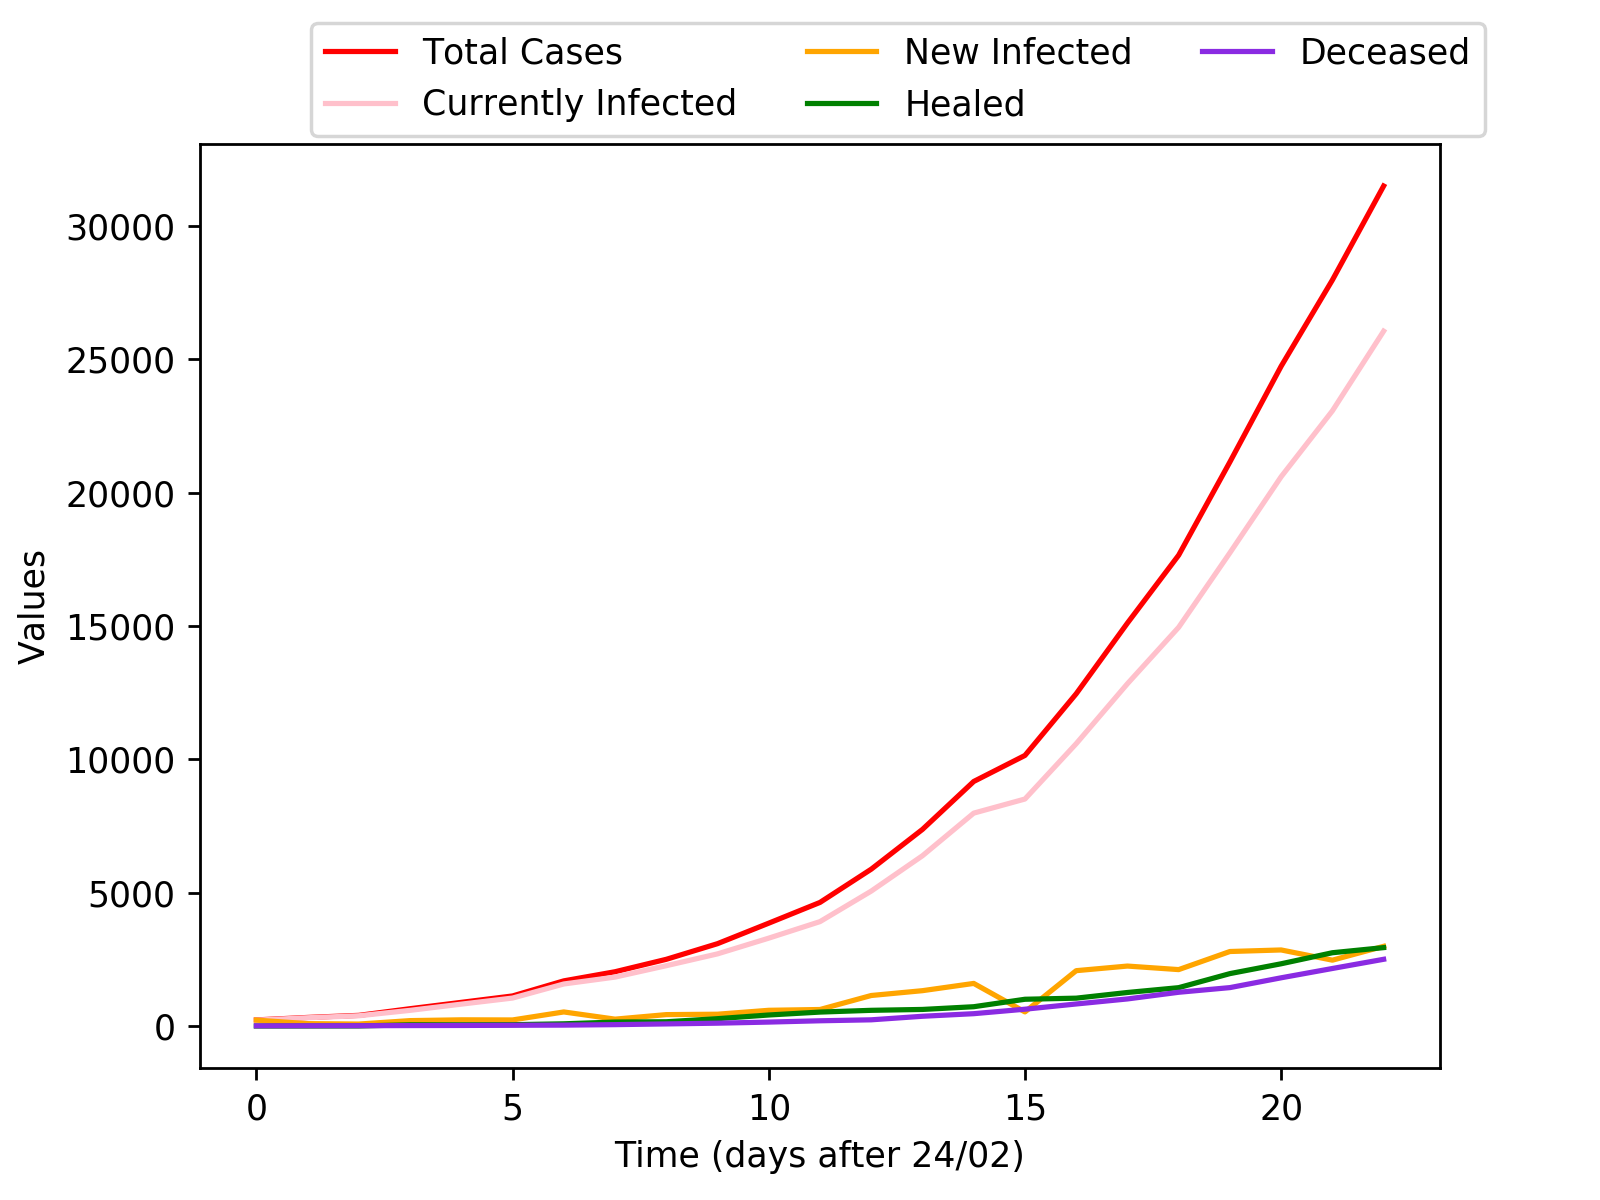
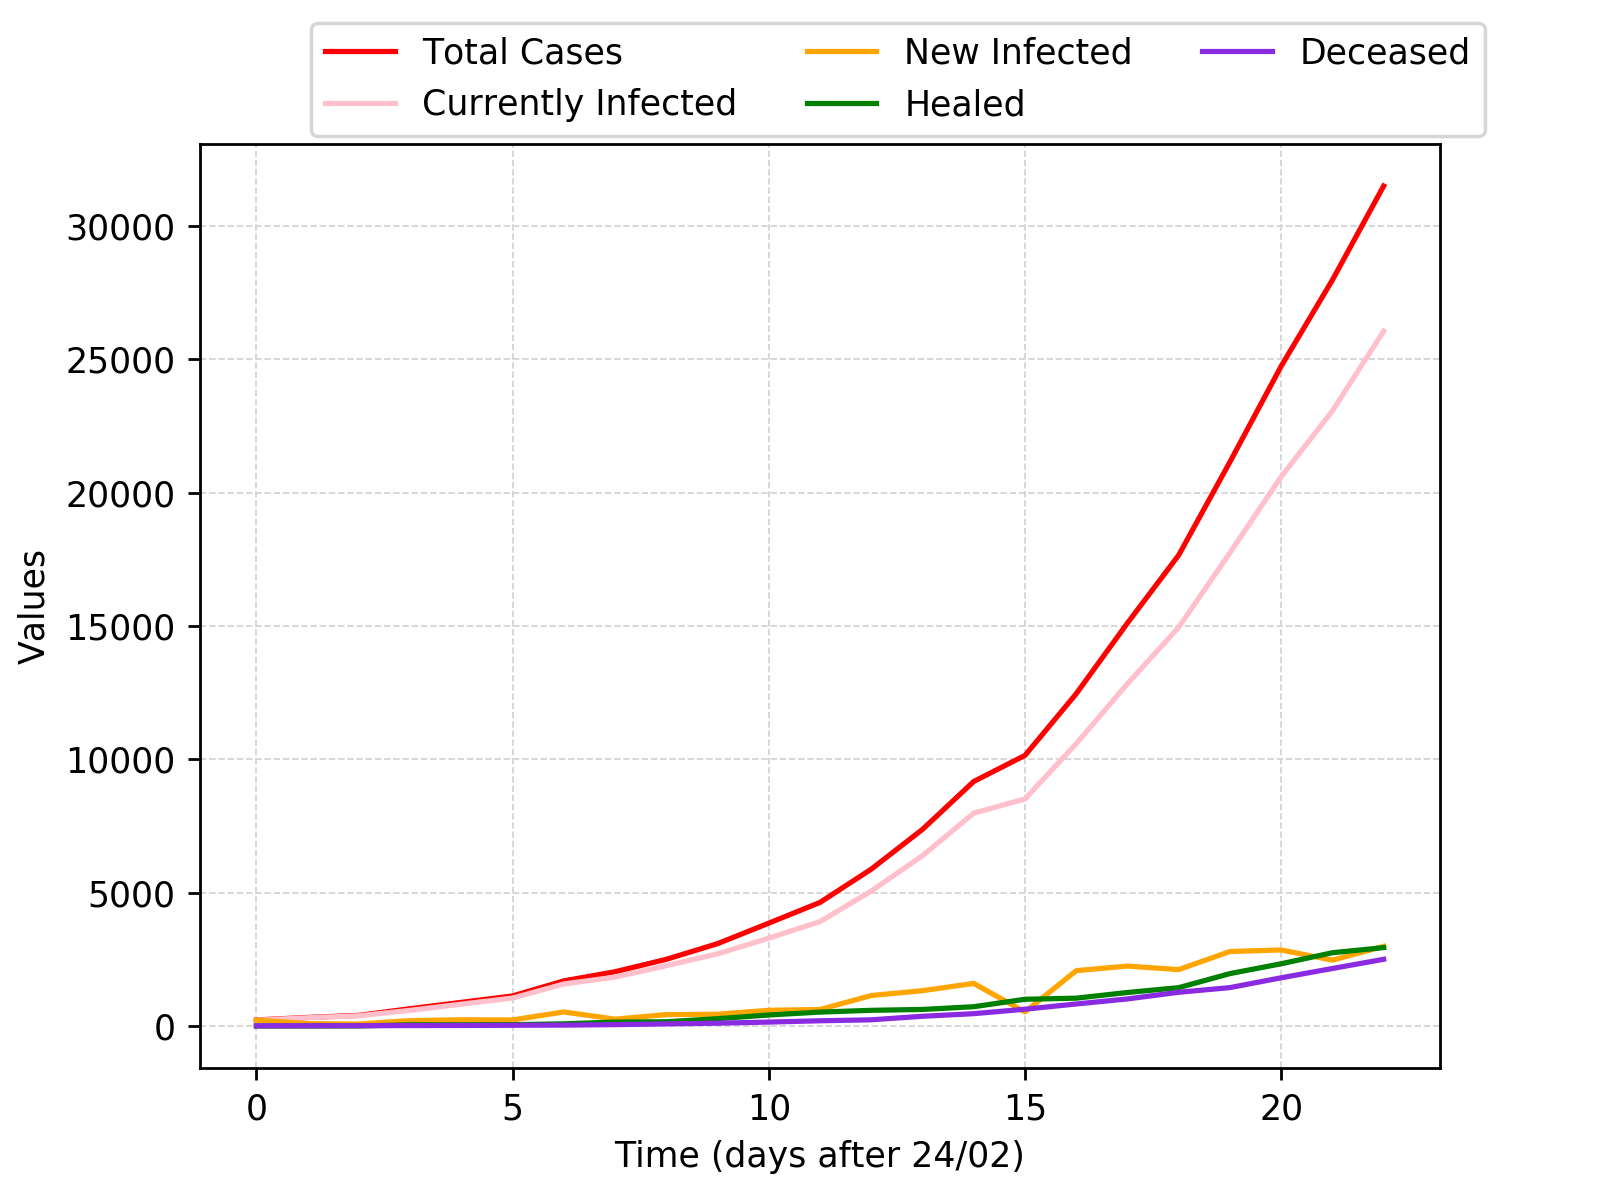
add grid to plots

diff --git a/plotscatter.py b/plotscatter.py
@@ -46,6 +46,7 @@ plt.title('Epidemic curve')
 plt.scatter(days, dataset['totale_casi'], c='red')
 #plt.scatter(days, dataset['totale_casi'], c='black')
 plt.legend(('data',),loc='upper right', bbox_to_anchor=(1.05, 1.15))
+plt.grid(color='lightgray', linestyle='--', linewidth=0.5)
 plt.savefig('./curves/epidemic-curve.png', dpi = 250)
 plt.clf()
 
@@ -54,6 +55,7 @@ plt.ylabel('Log of Total Cases')
 plt.title('Epidemic curve')
 plt.scatter(days, np.log(dataset['totale_casi']), c='red')
 plt.legend(('data',),loc='upper right', bbox_to_anchor=(1.05, 1.15))
+plt.grid(color='lightgray', linestyle='--', linewidth=0.5)
 plt.savefig('./curves/epidemic-curve-log.png', dpi = 250)
 plt.clf()
 
@@ -87,6 +89,7 @@ plt.title('Epidemic curve Fit')
 plt.xlabel('Time (days after 24/02)')
 plt.ylabel('Log of Total Cases')
 plt.legend(('fit (R2={:.3f})'.format(score), 'data'),loc='upper right', bbox_to_anchor=(1.05, 1.15))
+plt.grid(color='lightgray', linestyle='--', linewidth=0.5)
 plt.savefig('./curves/epidemic-curve-fit-TRAIN.png', dpi=250)
 plt.clf()
 
@@ -104,6 +107,7 @@ plt.ylabel('New Infected')
 plt.title('New infected curve')
 plt.scatter(days, dataset['nuovi_attualmente_positivi'], c='orange')
 plt.legend(('data',),loc='upper right', bbox_to_anchor=(1.05, 1.15))
+plt.grid(color='lightgray', linestyle='--', linewidth=0.5)
 plt.savefig('./curves/new-infected-curve.png', dpi = 250)
 plt.clf()
 
@@ -113,6 +117,7 @@ plt.ylabel('Healed')
 plt.title('Healed curve')
 plt.scatter(days, dataset['dimessi_guariti'], c='green')
 plt.legend(('data',),loc='upper right', bbox_to_anchor=(1.05, 1.15))
+plt.grid(color='lightgray', linestyle='--', linewidth=0.5)
 plt.savefig('./curves/healed-curve.png', dpi = 250)
 plt.clf()
 
@@ -122,6 +127,7 @@ plt.ylabel('Deceased')
 plt.title('Deceased curve')
 plt.scatter(days, dataset['deceduti'], c='blueviolet')
 plt.legend(('data',),loc='upper right', bbox_to_anchor=(1.05, 1.15))
+plt.grid(color='lightgray', linestyle='--', linewidth=0.5)
 plt.savefig('./curves/deceased-curve.png', dpi = 250)
 plt.clf()
 
@@ -136,6 +142,7 @@ plt.plot(days, dataset['nuovi_attualmente_positivi'], c='orange', linestyle='-')
 plt.plot(days, dataset['dimessi_guariti'], c='green', linestyle='-')
 plt.plot(days, dataset['deceduti'], c='blueviolet', linestyle='-')
 plt.legend(('Total Cases','New Infected','Healed','Deceased'),loc='upper right', bbox_to_anchor=(1.05, 1.15), ncol=2)
+plt.grid(color='lightgray', linestyle='--', linewidth=0.5)
 plt.savefig('./curves/all-curves.png', dpi = 250)
 plt.clf()
 
@@ -146,6 +153,7 @@ plt.plot(days, dataset['nuovi_attualmente_positivi'], c='orange', linestyle='-')
 plt.plot(days, dataset['dimessi_guariti'], c='green', linestyle='-')
 plt.plot(days, dataset['deceduti'], c='blueviolet', linestyle='-')
 plt.legend(('New Infected','Healed','Deceased'),loc='upper right', bbox_to_anchor=(1.05, 1.15), ncol=3)
+plt.grid(color='lightgray', linestyle='--', linewidth=0.5)
 plt.savefig('./curves/almost-all-curves.png', dpi = 250)
 plt.clf()
 
@@ -160,6 +168,7 @@ plt.plot(days, dataset['nuovi_attualmente_positivi'], c='orange', linestyle='-')
 plt.plot(days, dataset['dimessi_guariti'], c='green', linestyle='-')
 plt.plot(days, dataset['deceduti'], c='blueviolet', linestyle='-')
 plt.legend(('Total Cases','Currently Infected','New Infected','Healed','Deceased'),loc='upper right', bbox_to_anchor=(1.05, 1.15), ncol=3)
+plt.grid(color='lightgray', linestyle='--', linewidth=0.5)
 plt.savefig('./curves/all-case-all-current-curves.png', dpi = 250)
 plt.clf()
 
@@ -173,6 +182,7 @@ plt.ylabel('Fatality Rate')
 plt.plot(days, fatality_rate_1, c='darkslateblue', linestyle='-')
 plt.plot(days, fatality_rate_2, c='saddlebrown', linestyle='-')
 plt.legend(('dec/tot.cases','dec/(dec+heal)'),loc='upper right', bbox_to_anchor=(1.05, 1.15), ncol=2)
+plt.grid(color='lightgray', linestyle='--', linewidth=0.5)
 plt.savefig('./curves/fatality-rate.png', dpi = 250)
 plt.clf()
 
@@ -183,6 +193,7 @@ plt.ylabel('Recovery vs Fatality Rate (%)')
 plt.plot(days, recovery_rate, c='limegreen', linestyle='-')
 plt.plot(days, fatality_rate_2, c='saddlebrown', linestyle='-')
 plt.legend(('heal/(dec+heal)','dec/(dec+heal)'),loc='upper right', bbox_to_anchor=(1.05, 1.15), ncol=2)
+plt.grid(color='lightgray', linestyle='--', linewidth=0.5)
 plt.savefig('./curves/outcome-closed-cases.png', dpi = 250)
 plt.clf()
 
@@ -208,6 +219,7 @@ plt.title('Growth Factor [dN(t+1)/dN(t)]')
 plt.plot(days[2:], growth_factor, 'ko')
 plt.plot(days[2:], growth_factor, color='grey', linestyle='--')
 #plt.legend(('data','linked'),loc='upper right', bbox_to_anchor=(1.05, 1.15), ncol=2)
+plt.grid(color='lightgray', linestyle='--', linewidth=0.5)
 plt.savefig('./curves/growth-factor.png', dpi = 250)
 plt.clf()
 
@@ -232,5 +244,6 @@ plt.title('Growth Rate [(N(t+1)-N(t))/N(t)]x100')
 plt.plot(days[1:], growth_rate, 'bo')
 plt.plot(days[1:], growth_rate, color='cyan', linestyle='--')
 #plt.legend(('data','linked'),loc='upper right', bbox_to_anchor=(1.05, 1.15), ncol=2)
+plt.grid(color='lightgray', linestyle='--', linewidth=0.5)
 plt.savefig('./curves/growth-rate.png', dpi = 250)
 plt.clf()

diff --git a/explore_by_region.py b/explore_by_region.py
@@ -97,6 +97,7 @@ plt.plot(days, data_fvg['nuovi_attualmente_positivi'], c='orange', linestyle='-'
 plt.plot(days, data_fvg['dimessi_guariti'], c='green', linestyle='-')
 plt.plot(days, data_fvg['deceduti'], c='blueviolet', linestyle='-')
 plt.legend(('Total Cases','Currently Infected','New Infected','Healed','Deceased'),loc='upper right', bbox_to_anchor=(1.05, 1.15), ncol=3)
+plt.grid(color='lightgray', linestyle='--', linewidth=0.5)
 plt.savefig('./fvg/fvg-curves-1.png', dpi = 250)
 plt.clf()
 
@@ -106,6 +107,7 @@ plt.plot(days, data_fvg['nuovi_attualmente_positivi'], c='orange', linestyle='-'
 plt.plot(days, data_fvg['dimessi_guariti'], c='green', linestyle='-')
 plt.plot(days, data_fvg['deceduti'], c='blueviolet', linestyle='-')
 plt.legend(('New Infected','Healed','Deceased'),loc='upper right', bbox_to_anchor=(1.05, 1.15), ncol=3)
+plt.grid(color='lightgray', linestyle='--', linewidth=0.5)
 plt.savefig('./fvg/fvg-curves-2.png', dpi = 250)
 plt.clf()
 
@@ -115,6 +117,7 @@ plt.plot(days, data_fvg['nuovi_attualmente_positivi'], c='orange', linestyle='-'
 plt.plot(days, data_fvg['totale_ospedalizzati'], c='grey', linestyle='-')
 plt.plot(days, data_fvg['terapia_intensiva'], c='black', linestyle='-')
 plt.legend(('New Infected','In Hospital','Intensive Care'),loc='upper right', bbox_to_anchor=(1.05, 1.15), ncol=3)
+plt.grid(color='lightgray', linestyle='--', linewidth=0.5)
 plt.savefig('./fvg/fvg-curves-3-hospital.png', dpi = 250)
 plt.clf()
 
